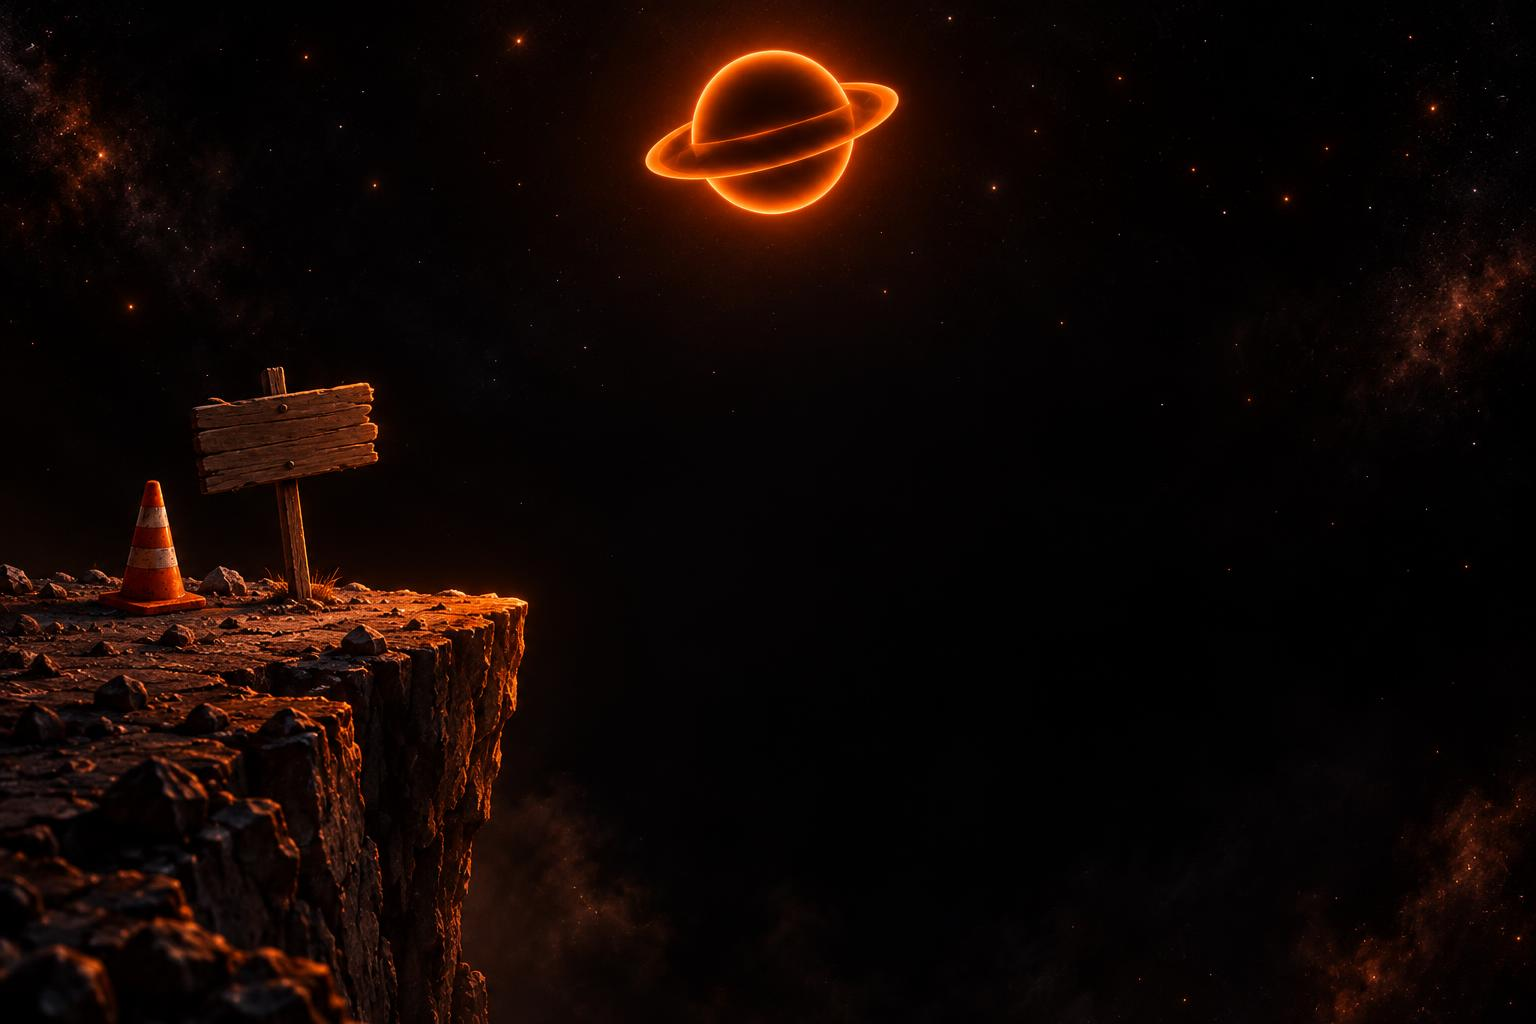
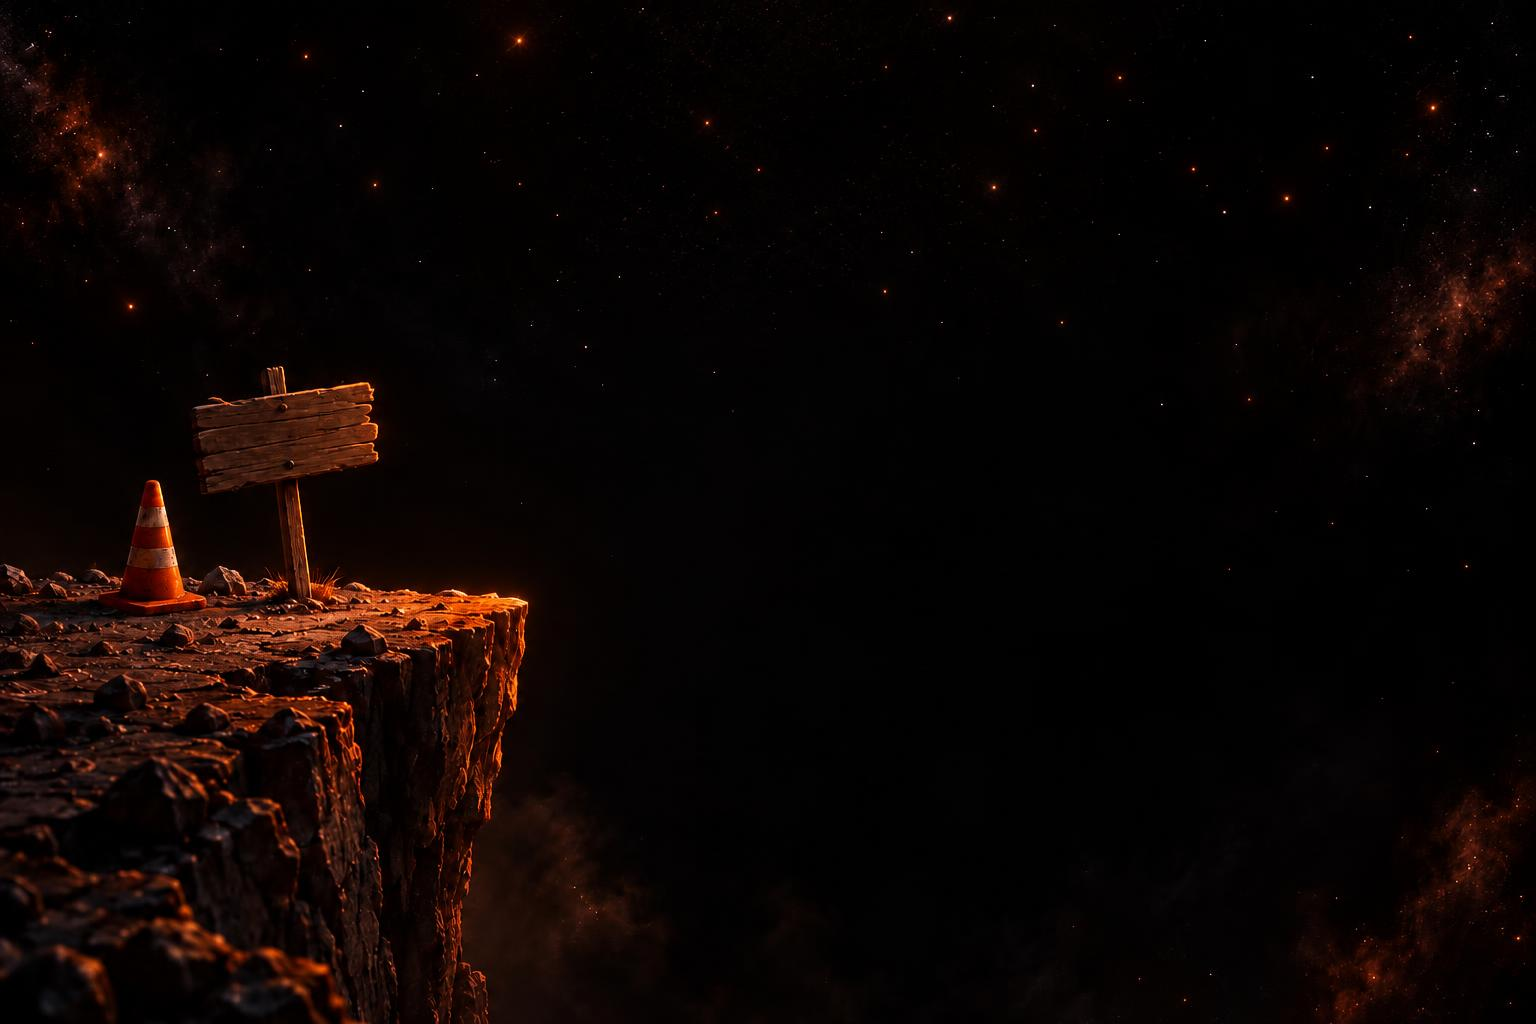
The end of the verse (his ask): the real Shlomiverse planet small and far in the middle of the sky (the picture's old planet cleared by GPT Image 2.5, end-of-verse-sky.mjs); the button just 'חזרה לשלומיוורס'; no characters / games links

diff --git a/public/404.html b/public/404.html
@@ -11,32 +11,32 @@
 <link href="https://fonts.googleapis.com/css2?family=Heebo:wght@400;700;900&display=swap" rel="stylesheet">
 <!-- "the end of the verse" (his ask, 2026-11-03): any address that isn't on shlomiverse.com. The same screen shows inside
      the site for a character / video / game that isn't there (pages.notFound in v2/site/wiki/index.html). Picture:
-     scripts/v2-design/end-of-verse.mjs; words: Terra -->
+     scripts/v2-design/end-of-verse.mjs, its sky cleared by end-of-verse-sky.mjs, the logo planet on top; words: Terra -->
 <style>
 * { box-sizing: border-box; margin: 0; padding: 0; }
 html, body { background: #050506; color: #fff; font-family: 'Heebo', sans-serif; line-height: 1.55; }
 .top { position: absolute; top: 0; inset-inline: 0; z-index: 2; display: flex; justify-content: flex-end; padding: calc(14px + env(safe-area-inset-top)) 18px; }
 .top img { width: 92px; height: auto; display: block; filter: drop-shadow(0 0 16px rgba(255, 106, 31, .35)); }
 .eov { position: relative; min-height: 100svh; display: flex; flex-direction: column; justify-content: flex-end; align-items: center; text-align: center;
-  padding: 0 20px 12vh; background: #050506 url('/verse/end-of-verse.jpg') center 30% / cover no-repeat; overflow: hidden; }
+  padding: 0 20px 12vh; background: #050506 url('/verse/end-of-verse.jpg?v=2') center 30% / cover no-repeat; overflow: hidden; }
 .eov::after { content: ''; position: absolute; inset: 0; background: linear-gradient(to bottom, transparent 35%, rgba(5, 5, 6, .55) 62%, #050506 96%); pointer-events: none; }
 .eov > * { position: relative; z-index: 1; }
 .eov h1 { font-size: clamp(2rem, 7vw, 3.4rem); font-weight: 900; line-height: 1.1; color: #fff; letter-spacing: -.01em; text-shadow: 0 2px 30px rgba(0, 0, 0, .8); }
 .eov p { margin-top: 12px; color: rgba(255, 255, 255, .72); font-size: 1.08rem; max-width: 420px; }
-.eov .eov-home { margin-top: 26px; display: inline-flex; align-items: center; gap: 8px; height: 56px; padding: 0 28px; border-radius: 99px; background: #141418; color: #fff; border: 1.5px solid #ff6a1f;
+.eov .eov-home { margin-top: 26px; display: inline-flex; align-items: center; gap: 0; height: 56px; padding: 0 28px; border-radius: 99px; background: #141418; color: #fff; border: 1.5px solid #ff6a1f;
   font-weight: 900; font-size: 1.08rem; box-shadow: 0 0 32px rgba(255, 106, 31, .45); text-decoration: none; }
 .eov .eov-wm { font-weight: 900; letter-spacing: -.03em; font-size: 1.2em; } .eov .eov-wm b { color: #ff6a1f; font-weight: inherit; }
-.eov .eov-more { margin-top: 16px; display: flex; gap: 22px; }
-.eov .eov-more a { color: rgba(255, 255, 255, .78); font-weight: 700; text-decoration: none; border-bottom: 1px solid rgba(255, 255, 255, .25); padding-bottom: 2px; }
-@media (max-width: 700px) { .eov { background-size: 165% auto; background-position: 10% top; } }
+.eov .eov-planet { position: absolute; z-index: 1; top: 21%; left: 50%; transform: translateX(-50%); width: clamp(92px, 10vw, 150px); height: auto; opacity: .94;
+    filter: drop-shadow(0 0 22px rgba(255, 106, 31, .55)) drop-shadow(0 0 60px rgba(255, 106, 31, .25)); pointer-events: none; }
+@media (max-width: 700px) { .eov { background-size: 165% auto; background-position: 10% top; } .eov .eov-planet { top: 5%; width: 86px; } }
 </style>
 <script src="/t.js" data-site="wiki" defer></script>
 </head>
 <body>
 <main class="eov">
+  <img class="eov-planet" src="/verse/logo-512.png" alt="">
   <h1>הגעתם לקצה הוורס</h1><p>אין פה כלום. כנראה שהדף הלך לאיבוד ביקום הגדול שלנו.</p>
-  <a class="eov-home" href="/">חזרה לבית <span class="eov-wm">שלומי<b>וורס</b></span></a>
-  <div class="eov-more"><a href="/characters">הדמויות</a><a href="/games">המשחקים</a></div>
+  <a class="eov-home" href="/">חזרה ל<span class="eov-wm">שלומי<b>וורס</b></span></a>
 </main>
 </body>
 </html>

diff --git a/public/wiki/index.html b/public/wiki/index.html
@@ -71,17 +71,17 @@ if (/^\/(play|v)\//.test(location.pathname)) { document.documentElement.classLis
   html { -webkit-text-size-adjust: 100%; }
   /* the end of the verse (pages.notFound) */
   .eov { position: relative; min-height: calc(100svh - 64px); display: flex; flex-direction: column; justify-content: flex-end; align-items: center; text-align: center;
-    padding: 0 20px 12vh; background: #050506 url('/verse/end-of-verse.jpg') center 30% / cover no-repeat; overflow: hidden; }
+    padding: 0 20px 12vh; background: #050506 url('/verse/end-of-verse.jpg?v=2') center 30% / cover no-repeat; overflow: hidden; }
   .eov::after { content: ''; position: absolute; inset: 0; background: linear-gradient(to bottom, transparent 35%, rgba(5, 5, 6, .55) 62%, #050506 96%); pointer-events: none; }
   .eov > * { position: relative; z-index: 1; }
   .eov h1 { font-size: clamp(2rem, 7vw, 3.4rem); font-weight: 900; line-height: 1.1; color: #fff; letter-spacing: -.01em; text-shadow: 0 2px 30px rgba(0, 0, 0, .8); }
   .eov p { margin-top: 12px; color: rgba(255, 255, 255, .72); font-size: 1.08rem; max-width: 420px; }
-  .eov .eov-home { margin-top: 26px; display: inline-flex; align-items: center; gap: 8px; height: 56px; padding: 0 28px; border-radius: 99px; background: #141418; color: #fff; border: 1.5px solid #ff6a1f;
+  .eov .eov-home { margin-top: 26px; display: inline-flex; align-items: center; gap: 0; height: 56px; padding: 0 28px; border-radius: 99px; background: #141418; color: #fff; border: 1.5px solid #ff6a1f;
     font-weight: 900; font-size: 1.08rem; box-shadow: 0 0 32px rgba(255, 106, 31, .45); text-decoration: none; }
   .eov .eov-wm { font-weight: 900; letter-spacing: -.03em; font-size: 1.2em; } .eov .eov-wm b { color: #ff6a1f; font-weight: inherit; }
-  .eov .eov-more { margin-top: 16px; display: flex; gap: 22px; }
-  @media (max-width: 700px) { .eov { background-size: 165% auto; background-position: 10% top; } }
-  .eov .eov-more a { color: rgba(255, 255, 255, .78); font-weight: 700; text-decoration: none; border-bottom: 1px solid rgba(255, 255, 255, .25); padding-bottom: 2px; }
+  .eov .eov-planet { position: absolute; z-index: 1; top: 21%; left: 50%; transform: translateX(-50%); width: clamp(92px, 10vw, 150px); height: auto; opacity: .94;
+    filter: drop-shadow(0 0 22px rgba(255, 106, 31, .55)) drop-shadow(0 0 60px rgba(255, 106, 31, .25)); pointer-events: none; }
+  @media (max-width: 700px) { .eov { background-size: 165% auto; background-position: 10% top; } .eov .eov-planet { top: 5%; width: 86px; } }
   body { background: var(--bg); color: var(--text); font-family: 'Heebo', sans-serif; line-height: 1.55; min-height: 100svh; overflow-x: hidden; }
   a { color: inherit; text-decoration: none; }
   button { font: inherit; color: inherit; background: none; border: 0; cursor: pointer; }
@@ -708,9 +708,9 @@ const pages = {
   },
   // "the end of the verse" - a character / video / game / page that isn't here (and /404.html for addresses off the site)
   notFound() { NF = true; document.title = "דף לא נמצא · שלומיוורס"; return `<div class="eov">
+  <img class="eov-planet" src="/verse/logo-512.png" alt="">
   <h1>הגעתם לקצה הוורס</h1><p>אין פה כלום. כנראה שהדף הלך לאיבוד ביקום הגדול שלנו.</p>
-  <a class="eov-home" href="/">חזרה לבית <span class="eov-wm">שלומי<b>וורס</b></span></a>
-  <div class="eov-more"><a href="/characters">הדמויות</a><a href="/games">המשחקים</a></div>
+  <a class="eov-home" href="/">חזרה ל<span class="eov-wm">שלומי<b>וורס</b></span></a>
 </div>`; },
 };
 

diff --git a/v2/site/wiki/index.html b/v2/site/wiki/index.html
@@ -71,17 +71,17 @@ if (/^\/(play|v)\//.test(location.pathname)) { document.documentElement.classLis
   html { -webkit-text-size-adjust: 100%; }
   /* the end of the verse (pages.notFound) */
   .eov { position: relative; min-height: calc(100svh - 64px); display: flex; flex-direction: column; justify-content: flex-end; align-items: center; text-align: center;
-    padding: 0 20px 12vh; background: #050506 url('/verse/end-of-verse.jpg') center 30% / cover no-repeat; overflow: hidden; }
+    padding: 0 20px 12vh; background: #050506 url('/verse/end-of-verse.jpg?v=2') center 30% / cover no-repeat; overflow: hidden; }
   .eov::after { content: ''; position: absolute; inset: 0; background: linear-gradient(to bottom, transparent 35%, rgba(5, 5, 6, .55) 62%, #050506 96%); pointer-events: none; }
   .eov > * { position: relative; z-index: 1; }
   .eov h1 { font-size: clamp(2rem, 7vw, 3.4rem); font-weight: 900; line-height: 1.1; color: #fff; letter-spacing: -.01em; text-shadow: 0 2px 30px rgba(0, 0, 0, .8); }
   .eov p { margin-top: 12px; color: rgba(255, 255, 255, .72); font-size: 1.08rem; max-width: 420px; }
-  .eov .eov-home { margin-top: 26px; display: inline-flex; align-items: center; gap: 8px; height: 56px; padding: 0 28px; border-radius: 99px; background: #141418; color: #fff; border: 1.5px solid #ff6a1f;
+  .eov .eov-home { margin-top: 26px; display: inline-flex; align-items: center; gap: 0; height: 56px; padding: 0 28px; border-radius: 99px; background: #141418; color: #fff; border: 1.5px solid #ff6a1f;
     font-weight: 900; font-size: 1.08rem; box-shadow: 0 0 32px rgba(255, 106, 31, .45); text-decoration: none; }
   .eov .eov-wm { font-weight: 900; letter-spacing: -.03em; font-size: 1.2em; } .eov .eov-wm b { color: #ff6a1f; font-weight: inherit; }
-  .eov .eov-more { margin-top: 16px; display: flex; gap: 22px; }
-  @media (max-width: 700px) { .eov { background-size: 165% auto; background-position: 10% top; } }
-  .eov .eov-more a { color: rgba(255, 255, 255, .78); font-weight: 700; text-decoration: none; border-bottom: 1px solid rgba(255, 255, 255, .25); padding-bottom: 2px; }
+  .eov .eov-planet { position: absolute; z-index: 1; top: 21%; left: 50%; transform: translateX(-50%); width: clamp(92px, 10vw, 150px); height: auto; opacity: .94;
+    filter: drop-shadow(0 0 22px rgba(255, 106, 31, .55)) drop-shadow(0 0 60px rgba(255, 106, 31, .25)); pointer-events: none; }
+  @media (max-width: 700px) { .eov { background-size: 165% auto; background-position: 10% top; } .eov .eov-planet { top: 5%; width: 86px; } }
   body { background: var(--bg); color: var(--text); font-family: 'Heebo', sans-serif; line-height: 1.55; min-height: 100svh; overflow-x: hidden; }
   a { color: inherit; text-decoration: none; }
   button { font: inherit; color: inherit; background: none; border: 0; cursor: pointer; }
@@ -708,9 +708,9 @@ const pages = {
   },
   // "the end of the verse" - a character / video / game / page that isn't here (and /404.html for addresses off the site)
   notFound() { NF = true; document.title = "דף לא נמצא · שלומיוורס"; return `<div class="eov">
+  <img class="eov-planet" src="/verse/logo-512.png" alt="">
   <h1>הגעתם לקצה הוורס</h1><p>אין פה כלום. כנראה שהדף הלך לאיבוד ביקום הגדול שלנו.</p>
-  <a class="eov-home" href="/">חזרה לבית <span class="eov-wm">שלומי<b>וורס</b></span></a>
-  <div class="eov-more"><a href="/characters">הדמויות</a><a href="/games">המשחקים</a></div>
+  <a class="eov-home" href="/">חזרה ל<span class="eov-wm">שלומי<b>וורס</b></span></a>
 </div>`; },
 };
 
